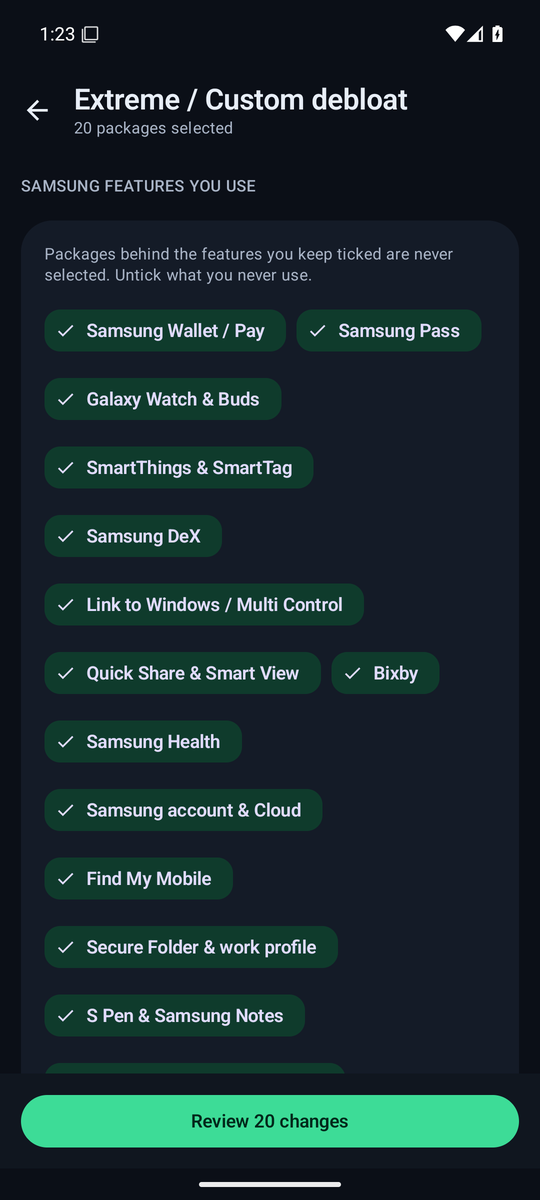
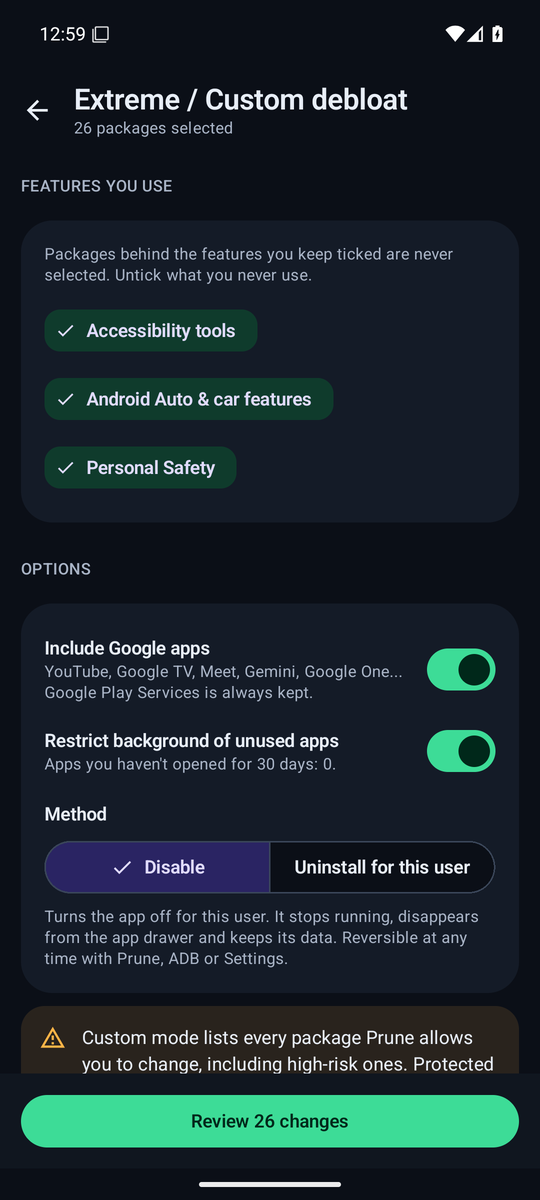
Release notes and screenshots for 2.0.0

diff --git a/docs/release-notes/v2.0.0.md b/docs/release-notes/v2.0.0.md
@@ -1,0 +1,57 @@
+**Prune is evolving!** Originally developed with Samsung Galaxy devices in mind, Prune is now a universal Android debloating tool. It detects your phone's manufacturer, model and firmware automatically and adapts its rules, features and setup steps to it.
+
+## What's new
+
+**Universal Android architecture**
+- Device identity from Build fields and system properties, firmware detection, and one integration module per manufacturer. A generic Android integration works on every phone; unknown manufacturers can never crash Prune.
+- The debloat engine (`pm`, `cmd appops`, `cmd deviceidle`, `settings`) is the same for every brand; integrations only add knowledge.
+
+**Manufacturer integrations**
+- Dedicated rules: Samsung (One UI), Google Pixel (stock Android), Xiaomi / Redmi / POCO (HyperOS, MIUI), Huawei (EMUI, HarmonyOS 2–4), Honor (MagicOS), OPPO / OnePlus / realme (ColorOS, OxygenOS, realme UI), Motorola (My UX).
+- Detection and firmware names for Sony, Nothing, ASUS, vivo/iQOO, Tecno/Infinix/itel, Nokia/HMD, Lenovo, ZTE/nubia and LG (generic rules).
+- Each brand's critical apps are locked: for example the Xiaomi Security app, permission manager and updater; Huawei Phone Manager; OPPO/OnePlus Security Center and permission manager.
+- Google, Huawei and Honor service frameworks are detected independently. On a phone without Google services, HMS Core and AppGallery are locked.
+- Setup steps adapt to the brand, including Xiaomi's "USB debugging (Security settings)" and ColorOS's "Disable permission monitoring".
+
+**Package identification**
+- Rule files per manufacturer (348 curated entries in 9 files) plus the full community manufacturer lists: 5,396 packages known, up from about 2,000.
+- New risk level **Unknown** for packages in no database: never pre-selected, Custom only, extra confirmation.
+- Installer detection recognises apps placed by partner preload installers.
+- Duplicate apps: app types installed more than once (browsers, galleries, keyboards, app stores...).
+- Region-specific variants are marked; entries can carry consequences and recovery instructions and be limited to Android versions or firmwares.
+
+**Compatibility report** (tap the device card on Home)
+- Manufacturer, model, Android version, firmware, integration and compatibility level; access tier, Shizuku and root status; supported and unsupported operations with firmware caveats; what already succeeded or failed on this device; known limitations. Shareable as text for bug reports.
+
+**Fixes and improvements**
+- Package labels are cached between scans.
+- Feature answers saved by 1.0 keep working; features new in 2.0 count as "used" until you answer.
+- The keyboard closes when you open a package from search.
+
+## Compatibility (be honest about it)
+
+| Level | Manufacturers |
+|---|---|
+| Fully implemented and tested | Android emulator (stock Android 15), where Prune's automated tests run |
+| Partially tested | Samsung, Google Pixel |
+| Experimental | Xiaomi / Redmi / POCO, Huawei, Honor, OPPO / OnePlus / realme, Motorola |
+| Generic | Sony, Nothing, ASUS, vivo, Tecno / Infinix / itel, Nokia / HMD, Lenovo, ZTE / nubia, LG, any other Android 9+ phone |
+
+No brand has been tested on physical hardware by the project yet. Brand detection and firmware parsing are tested with simulated devices; the debloat commands are tested on a real Android 15 system (emulator) as the same user Shizuku uses. Please share your compatibility report in an issue.
+
+## Known limitations and issues
+- Shizuku binding and root have not been verified on real hardware.
+- Xiaomi needs "USB debugging (Security settings)" and ColorOS-based phones need "Disable permission monitoring" for permission, background and animation changes.
+- Huawei, Honor and some Samsung packages refuse `disable-user`; Prune uninstalls them for the current user instead (reversible).
+- Some firmwares restore system apps during updates.
+- Battery estimates depend on the firmware's `dumpsys batterystats` format.
+- HarmonyOS NEXT cannot run Android apps.
+
+## Install
+1. Download `Prune-2.0.0.apk` below and open it on the phone.
+2. Allow installing from your browser or file manager when asked.
+3. Open Prune → Home → Set up, and follow the Shizuku steps shown for your phone.
+
+**Upgrading from 1.0.0:** install over it. Same signing key; history and settings are kept.
+
+SHA-256 checksums are in `SHA256SUMS.txt`. Full details: [README](https://github.com/cyb3rl00m/prune-debloater#readme) · [Compatibility](https://github.com/cyb3rl00m/prune-debloater/blob/main/docs/COMPATIBILITY.md) · [Changelog](https://github.com/cyb3rl00m/prune-debloater/blob/main/CHANGELOG.md)
